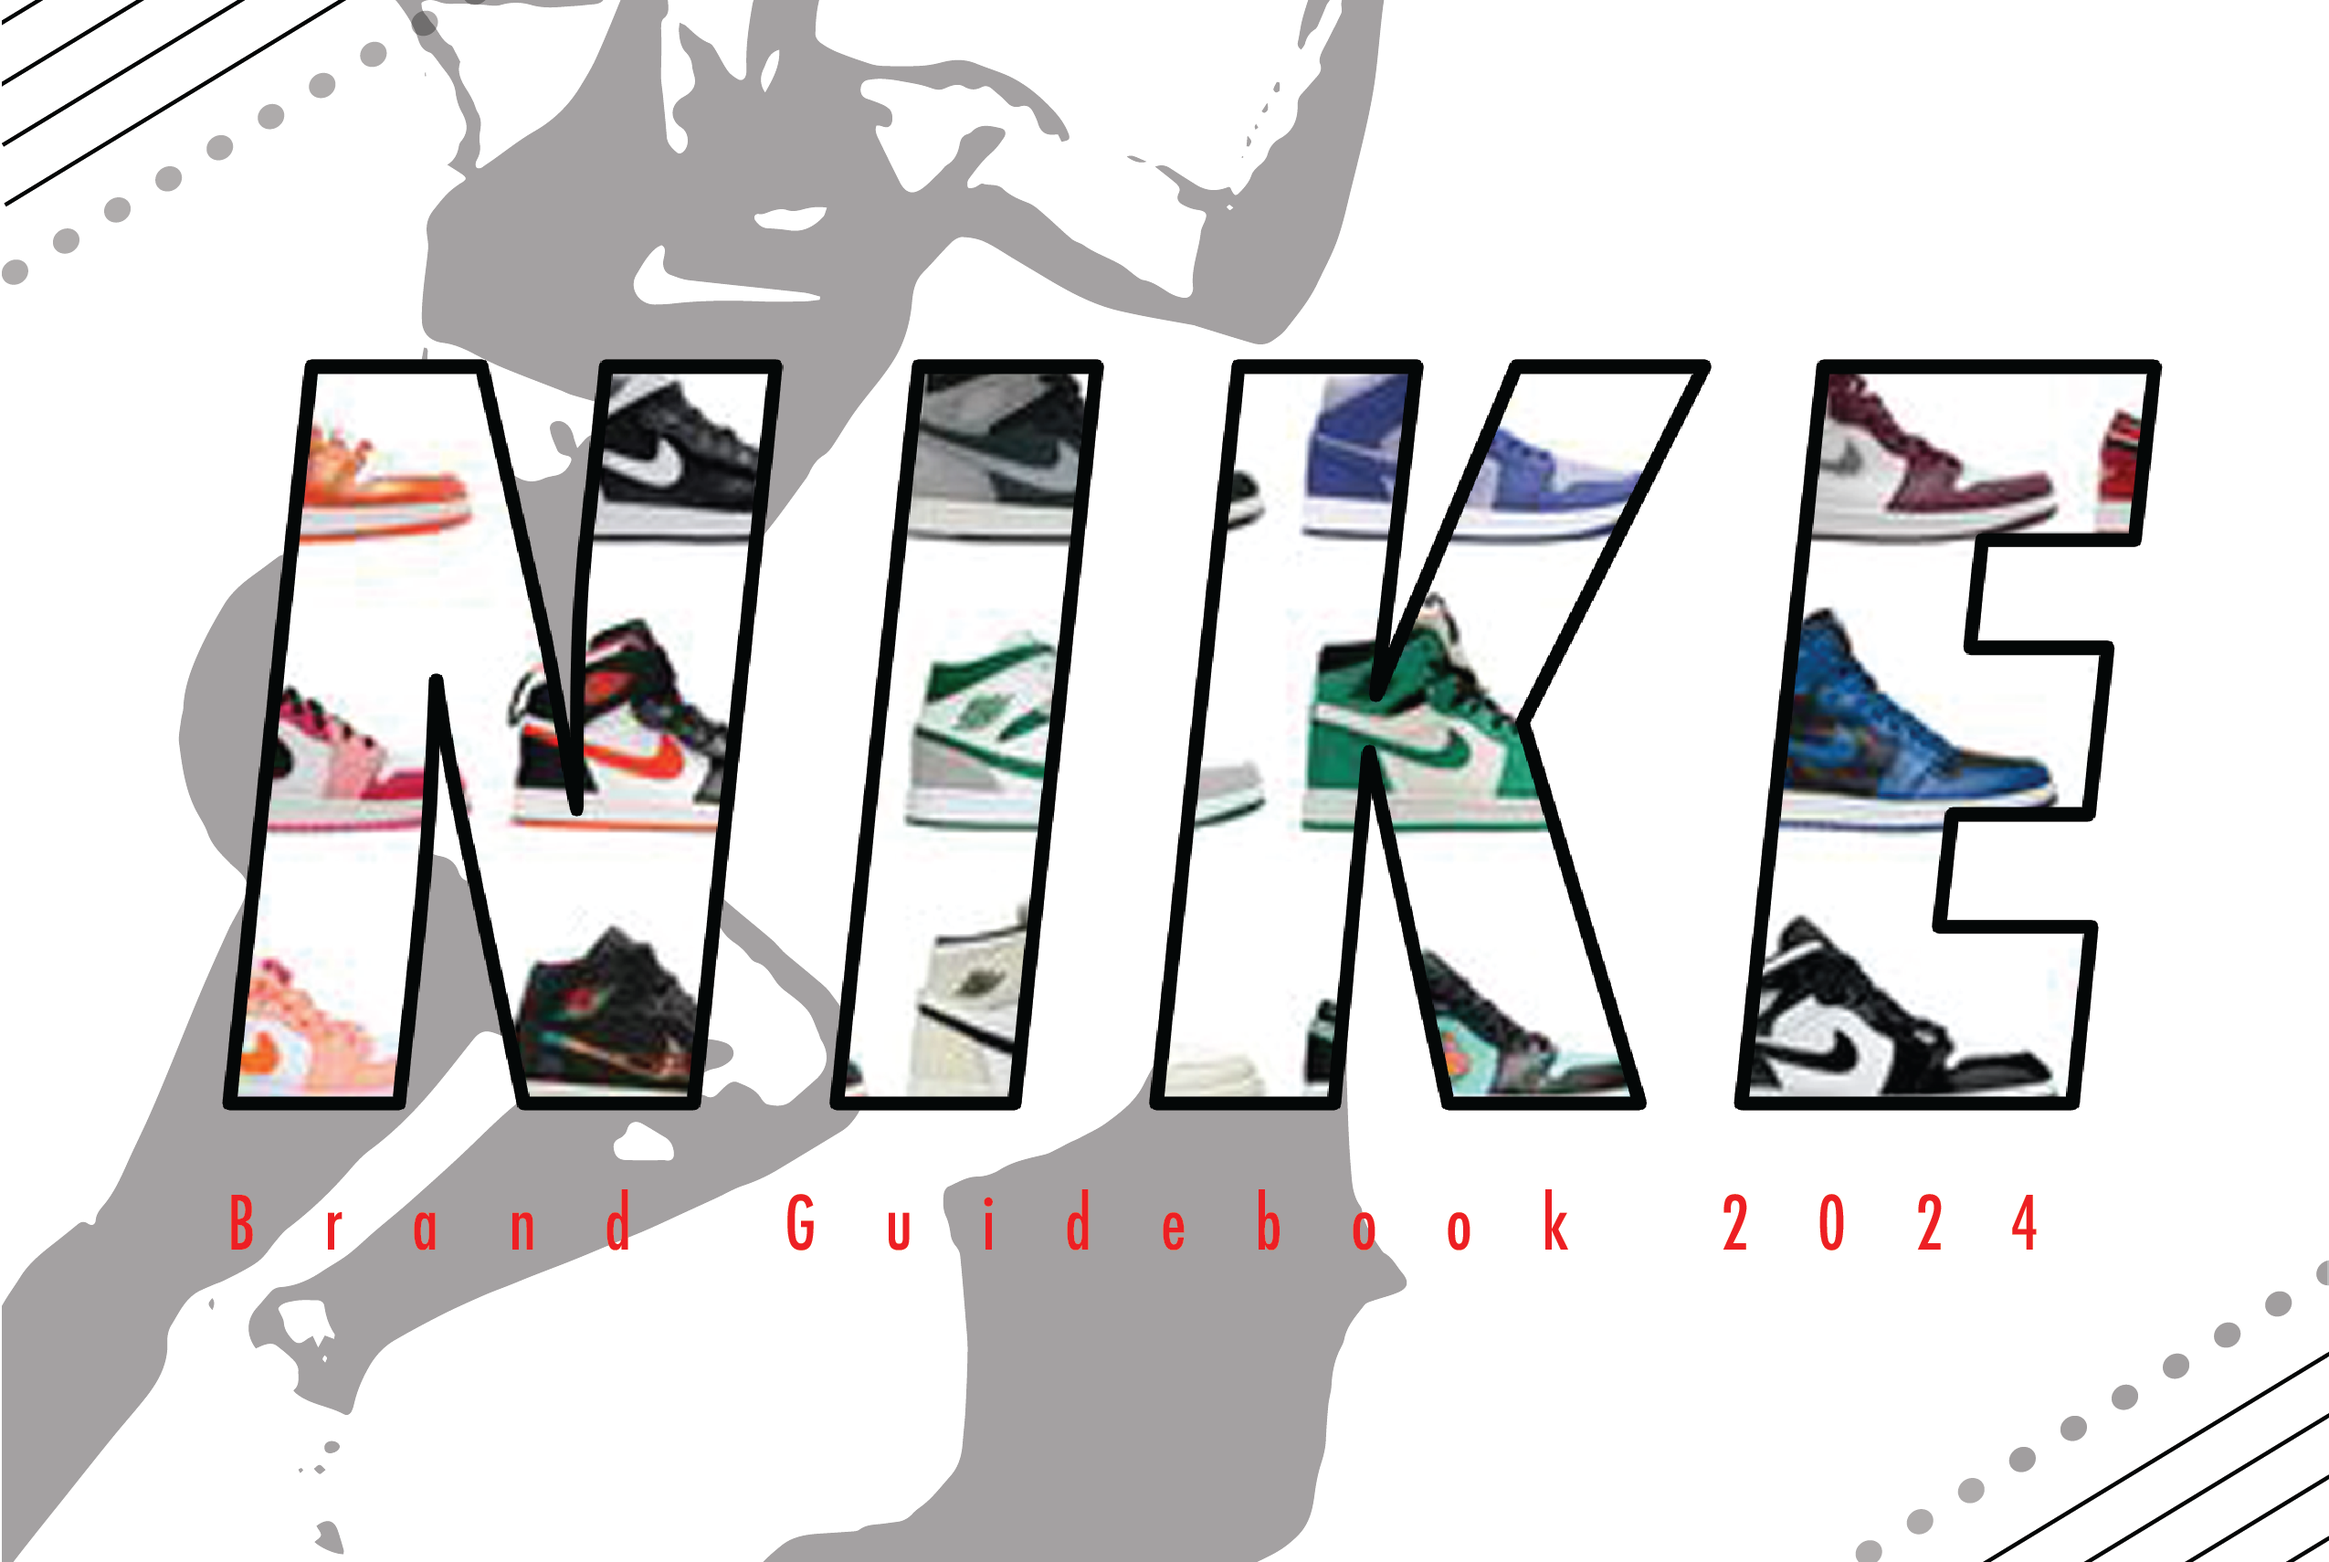
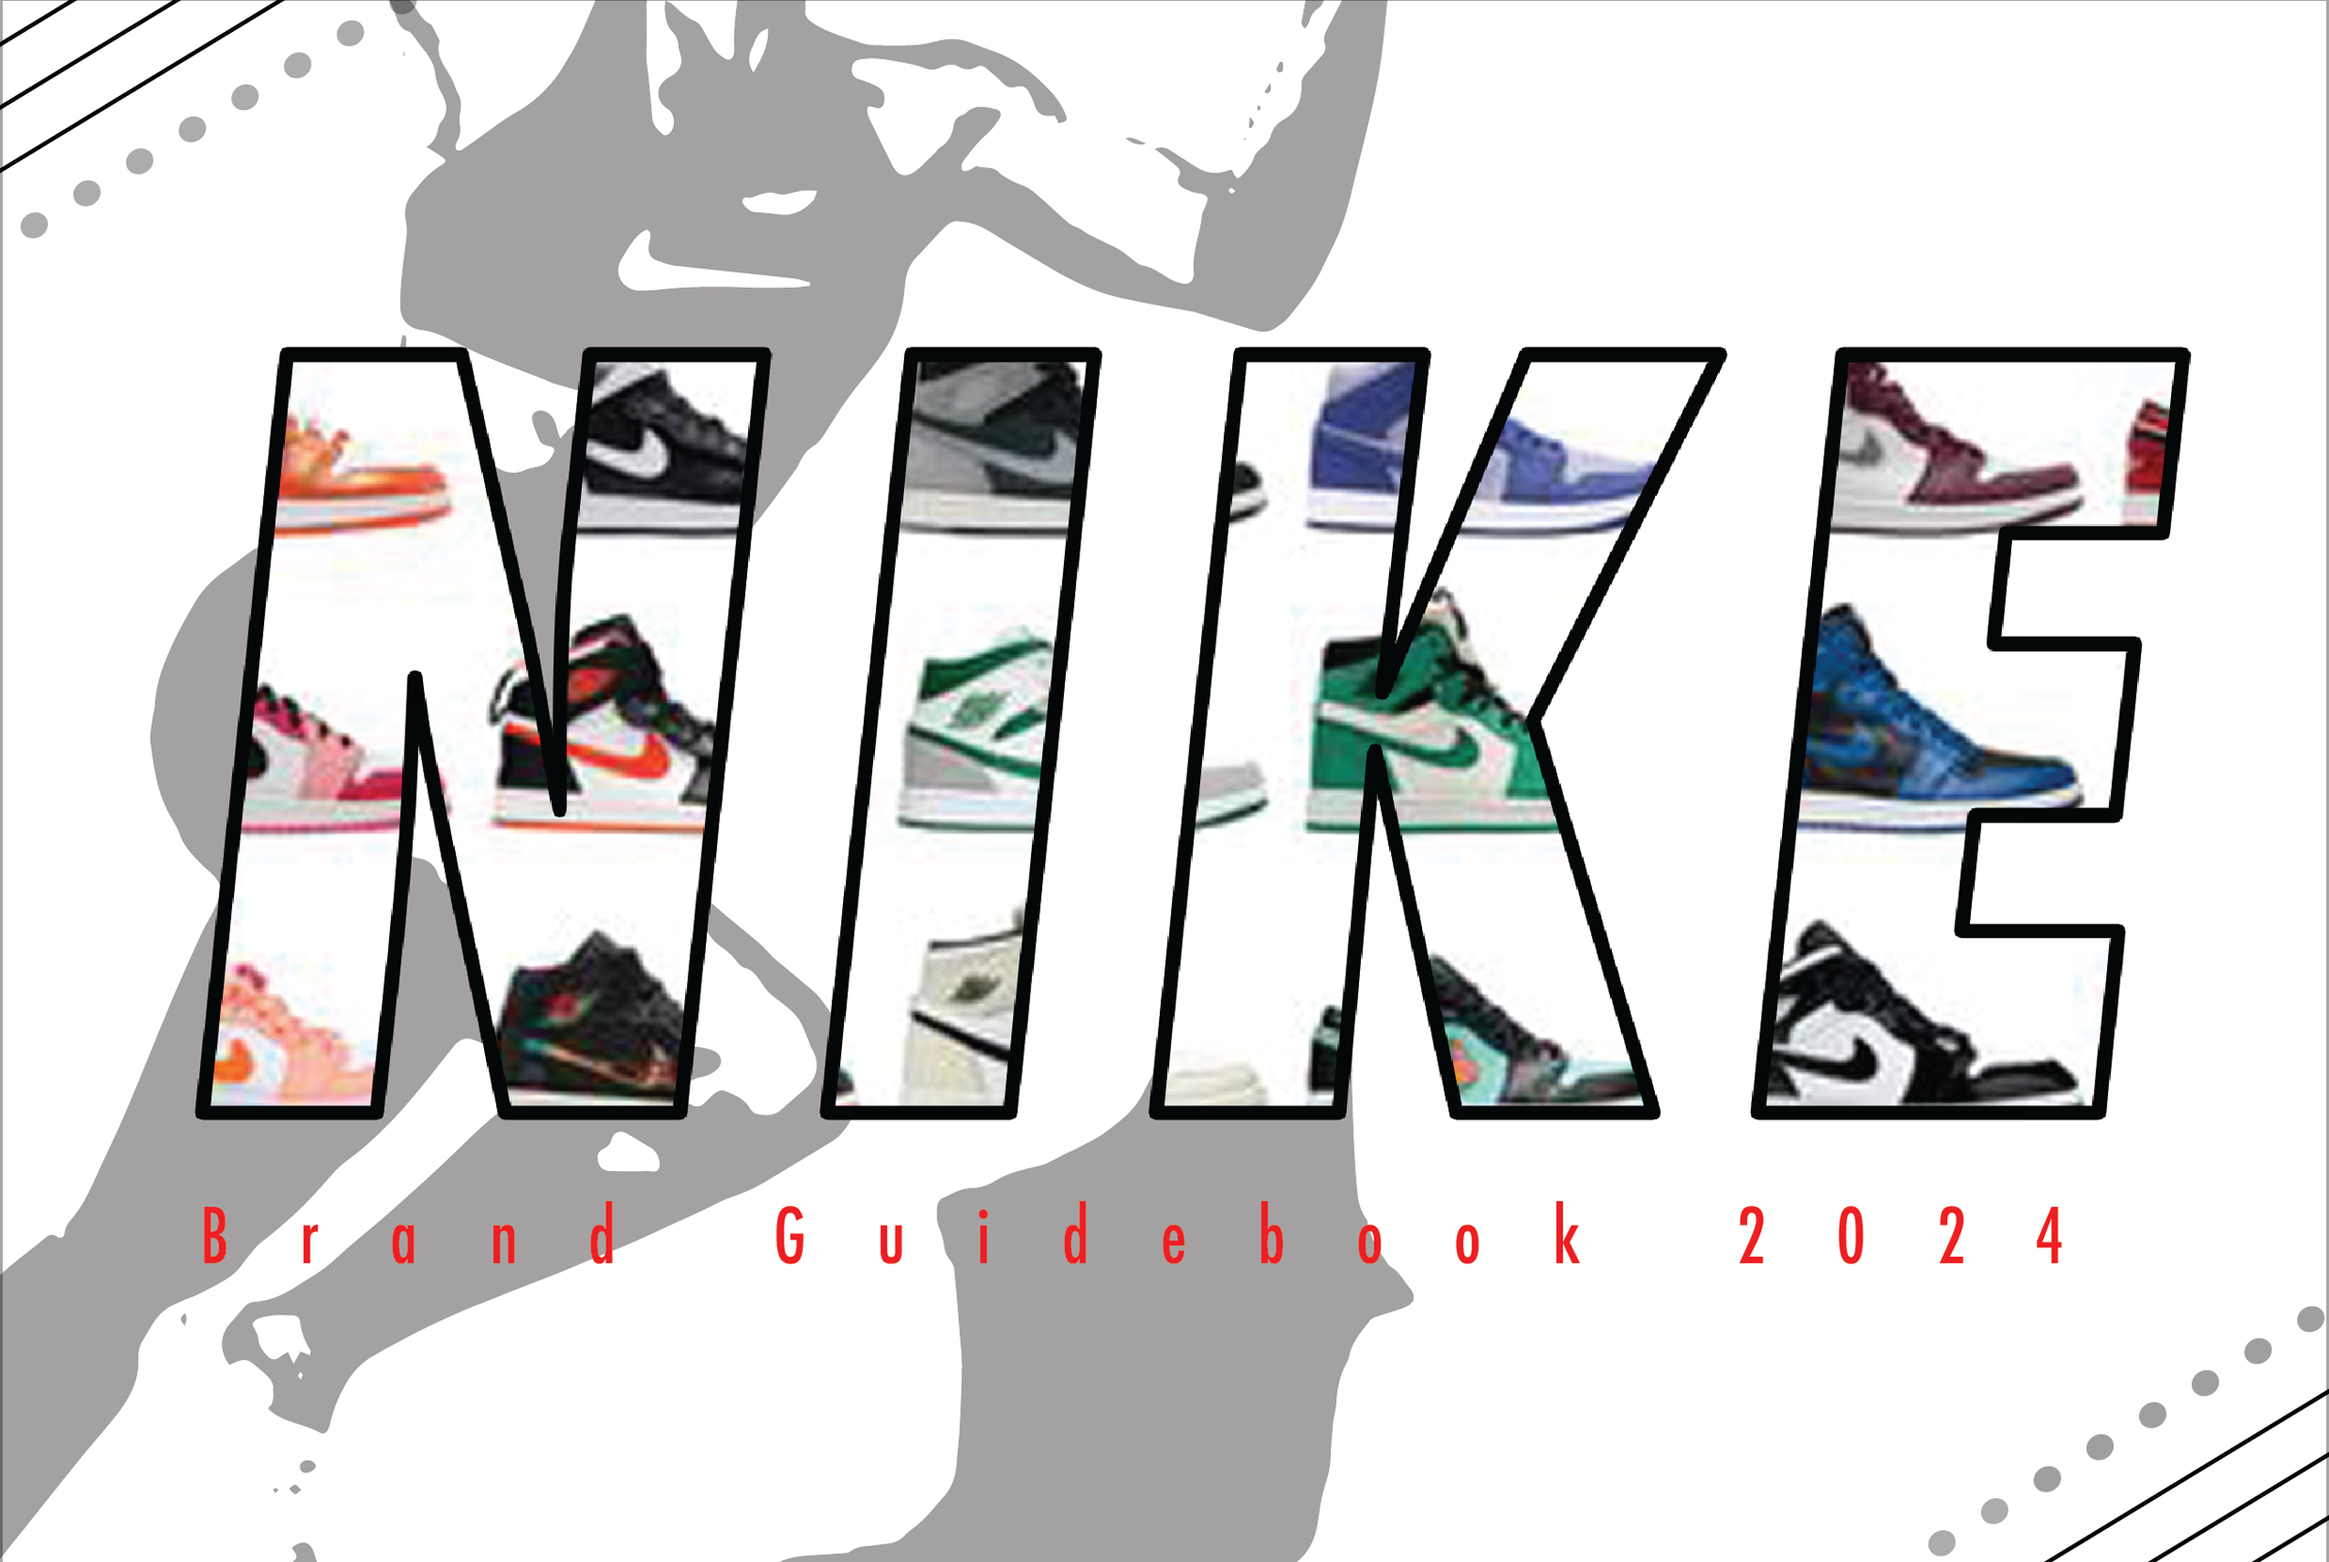
identity

diff --git a/index.html b/index.html
@@ -280,7 +280,7 @@
           </div>
 
           <div class="col-lg-4 col-md-6 portfolio-item filter-photoshop">
-            <div class="portfolio-img"><img src="assets/img/portfolio/photoshop.png" class="img-fluid" alt="Surealism">
+            <div class="portfolio-img"><img src="assets/img/portfolio/identity-2.png" class="img-fluid" alt="Surealism">
             </div>
             <div class="portfolio-info">
               <h4>Photoshop</h4>
